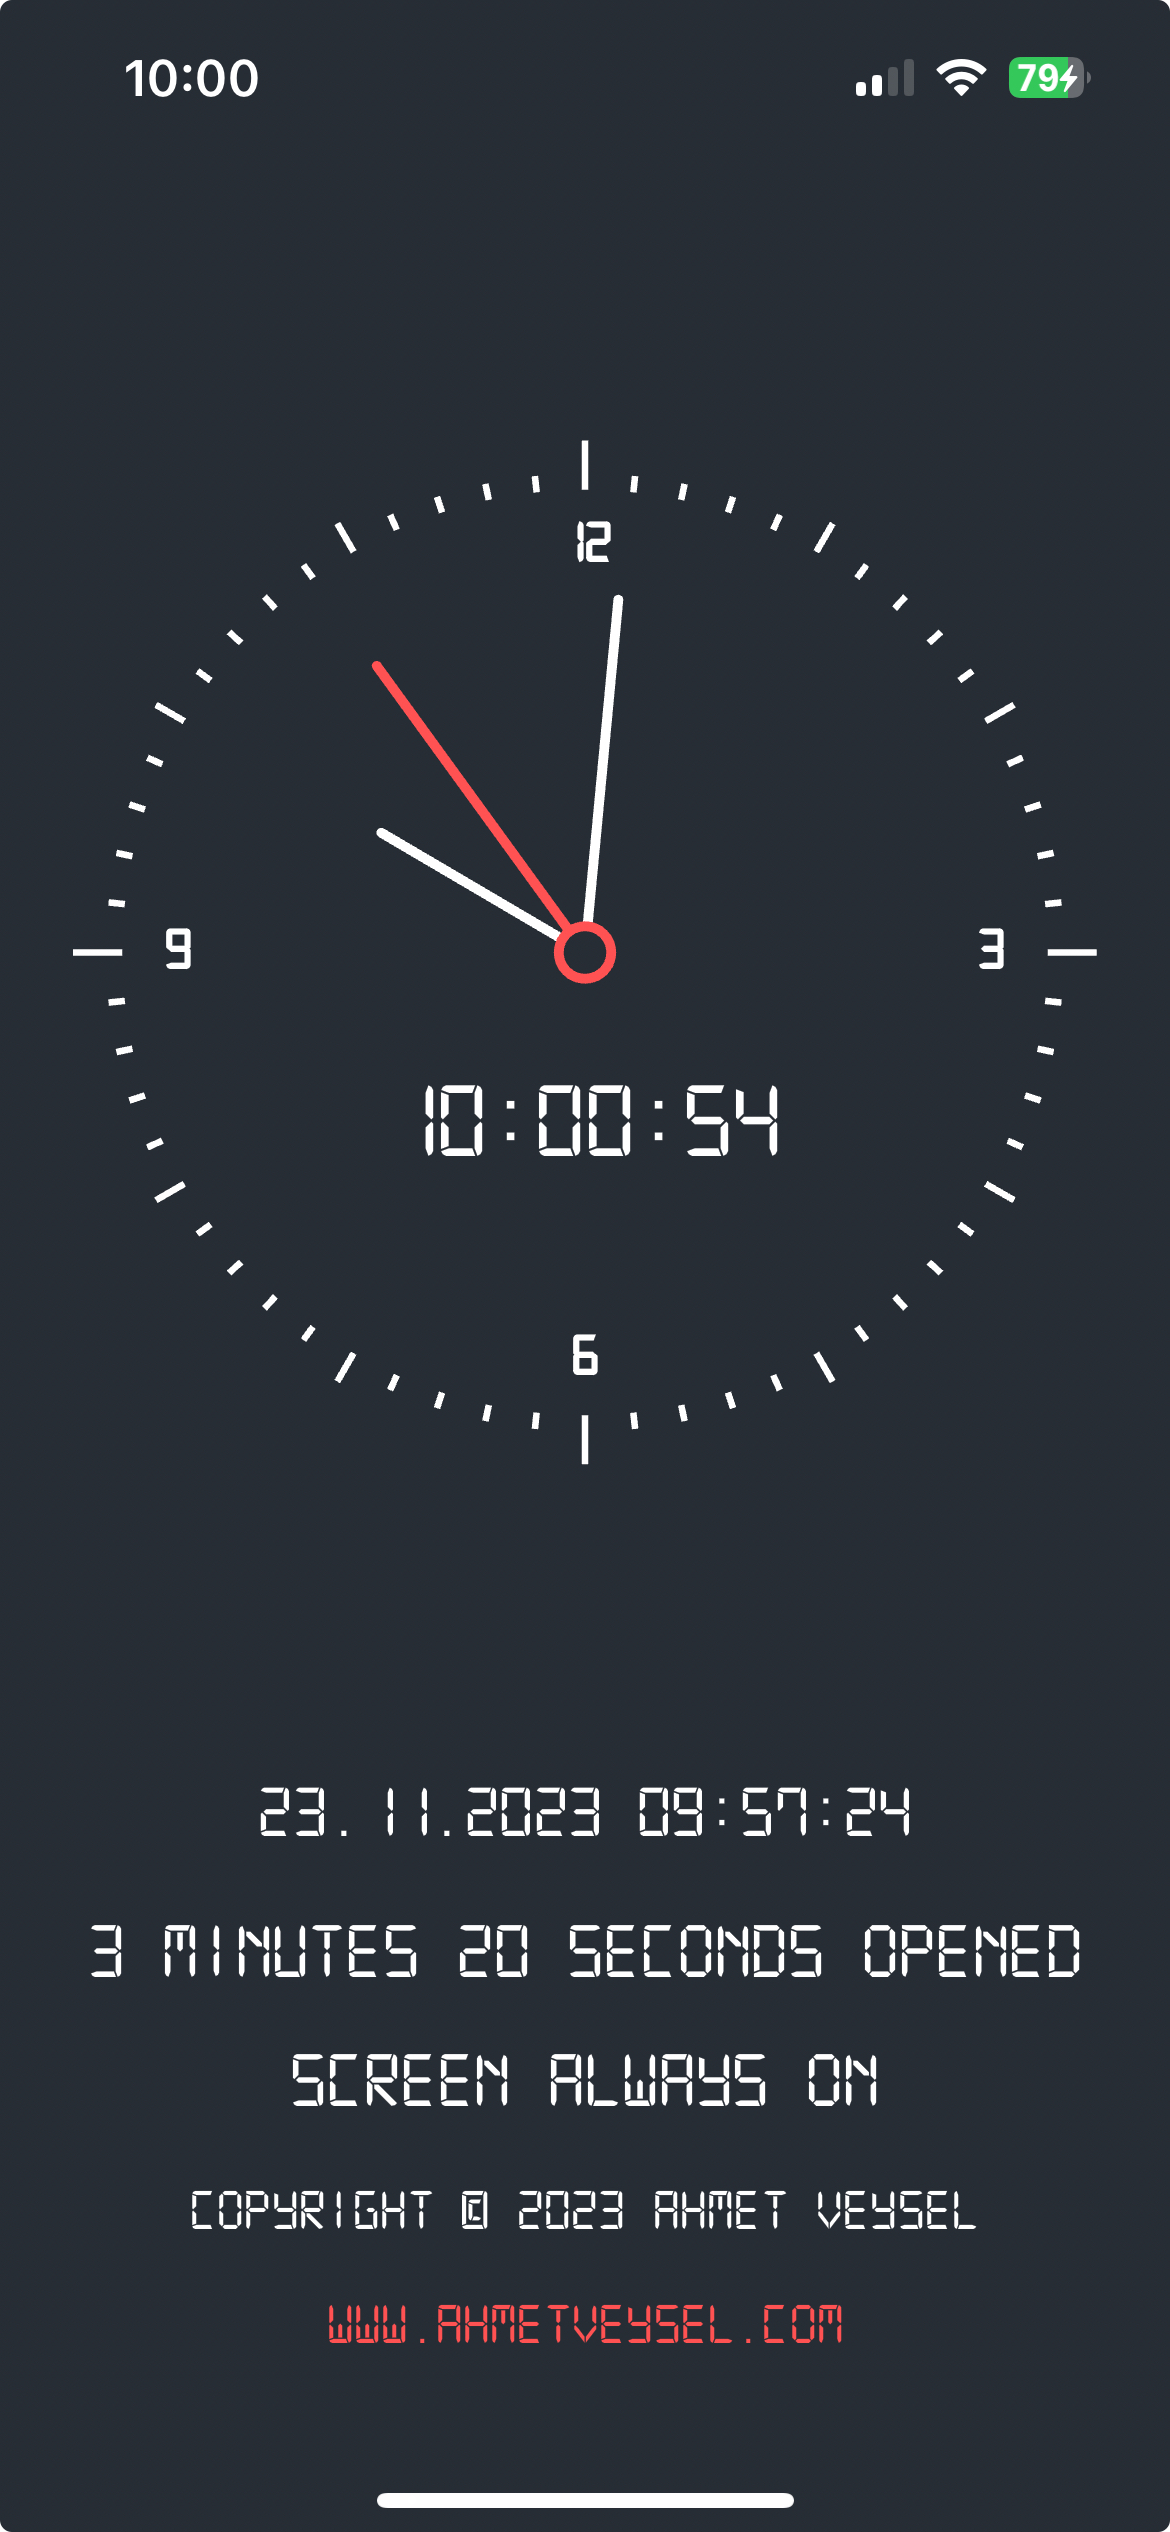
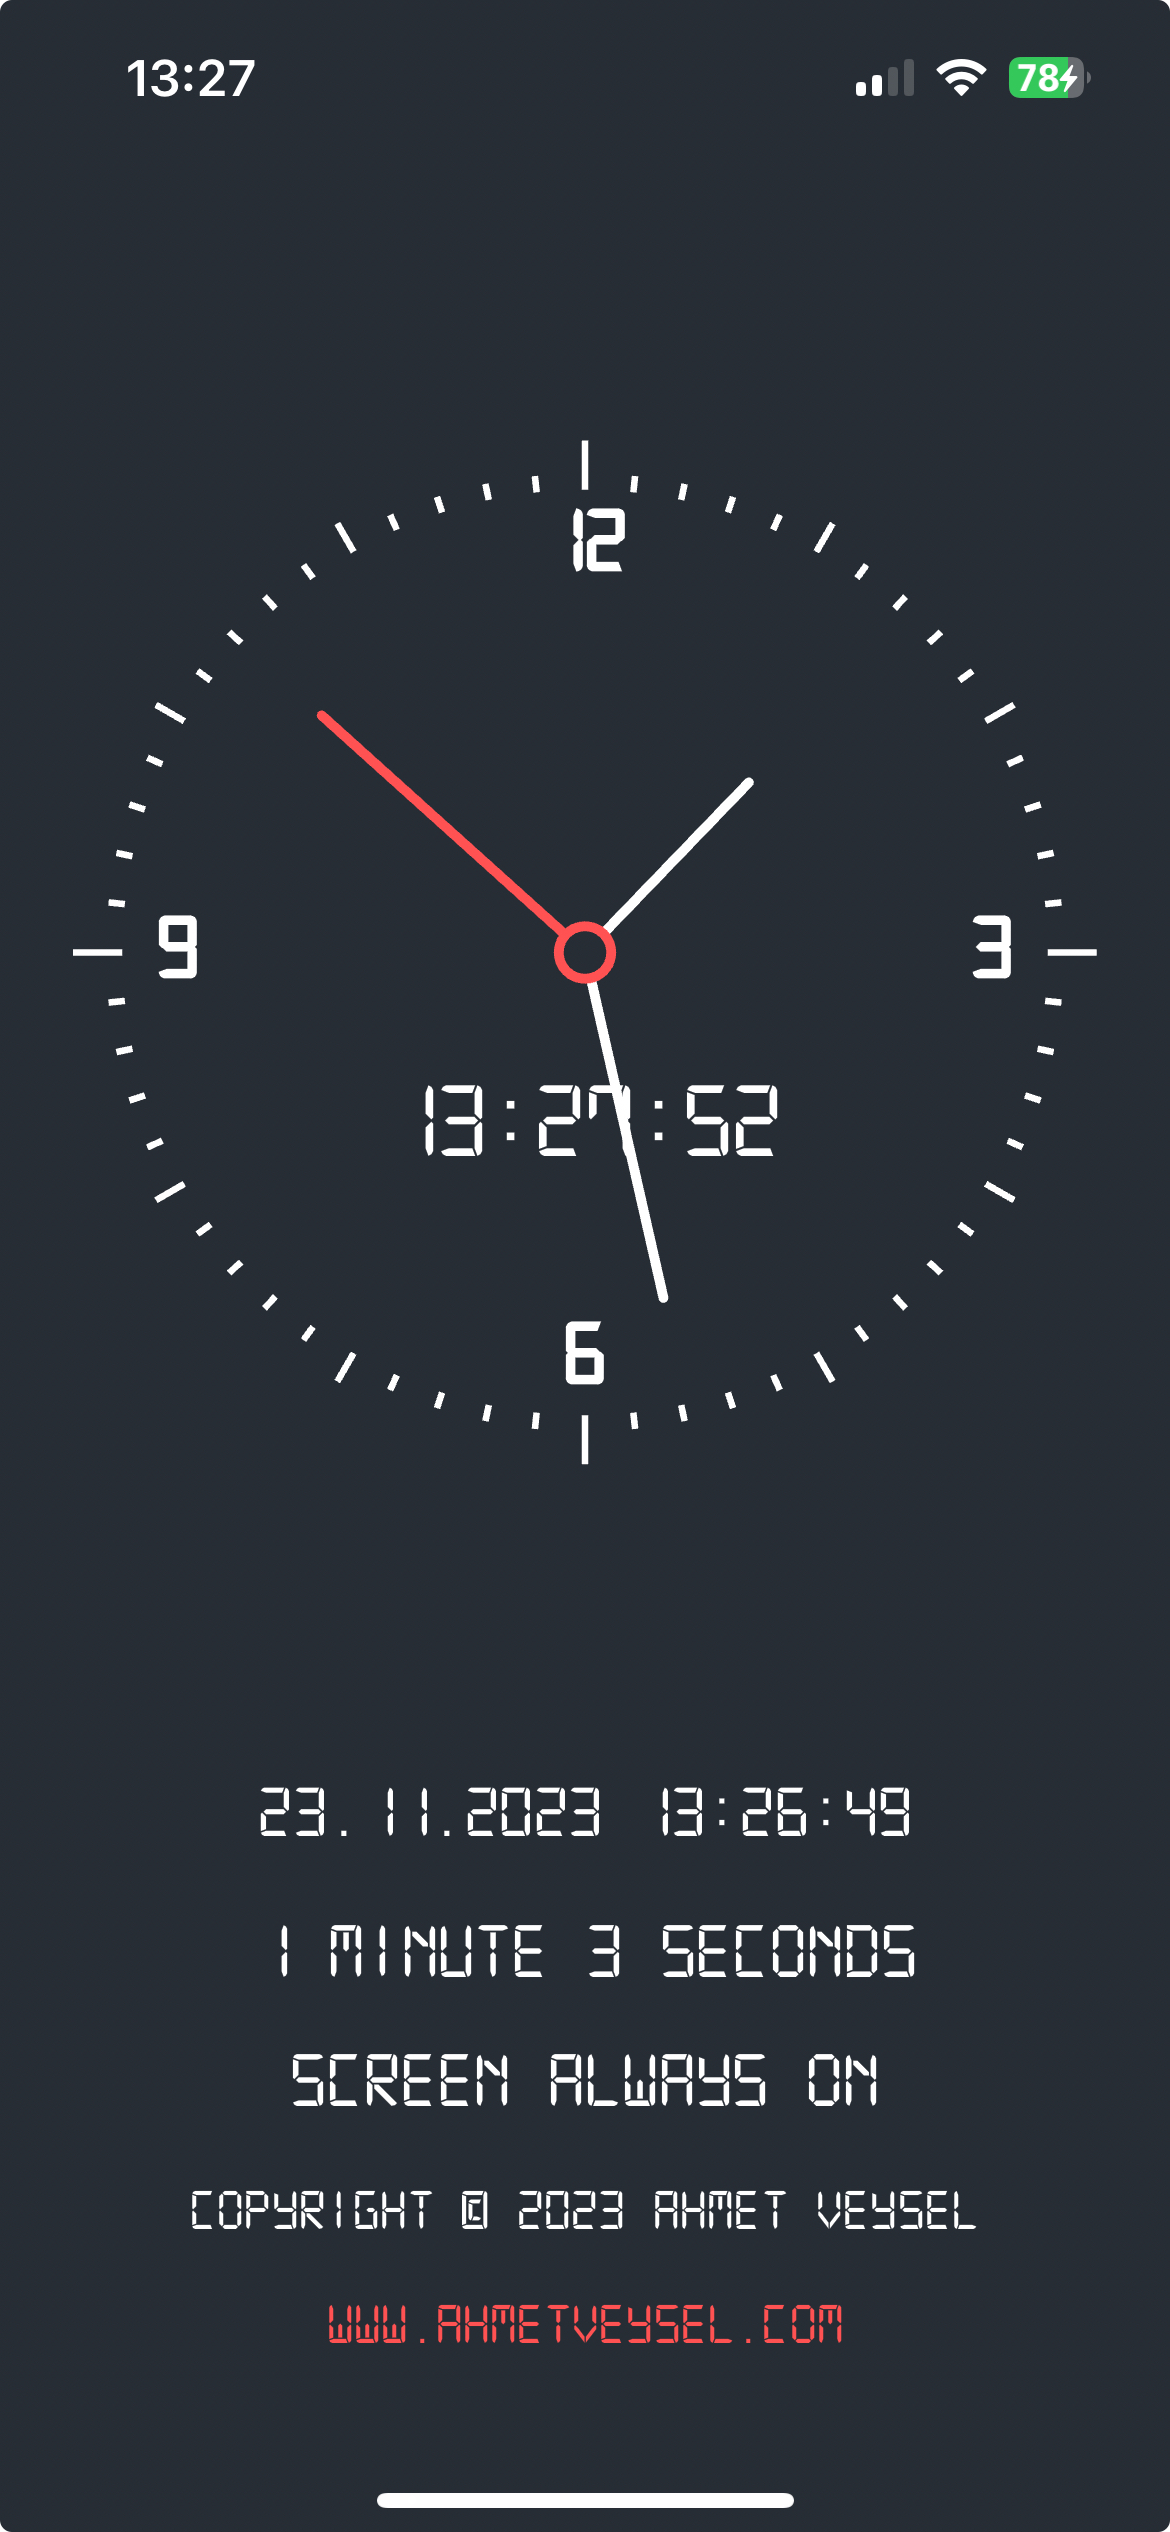
fix

diff --git a/lib/clock/analog_clock_painter.dart b/lib/clock/analog_clock_painter.dart
@@ -61,7 +61,7 @@ class AnalogClockPainter extends CustomPainter {
   }
 
   void _drawIndicators(Canvas canvas, Size size, double scaleFactor, bool showAllNumbers) {
-    TextStyle style = TextStyle(color: numberColor, fontWeight: FontWeight.bold, fontFamily: "ClockFont", fontSize: 18.0 * scaleFactor * textScaleFactor);
+    TextStyle style = TextStyle(color: numberColor, fontWeight: FontWeight.bold, fontFamily: "ClockFont", fontSize: 28.0 * scaleFactor * textScaleFactor);
     double p = 12.0;
     if (showTicks) p += 24.0;
 
